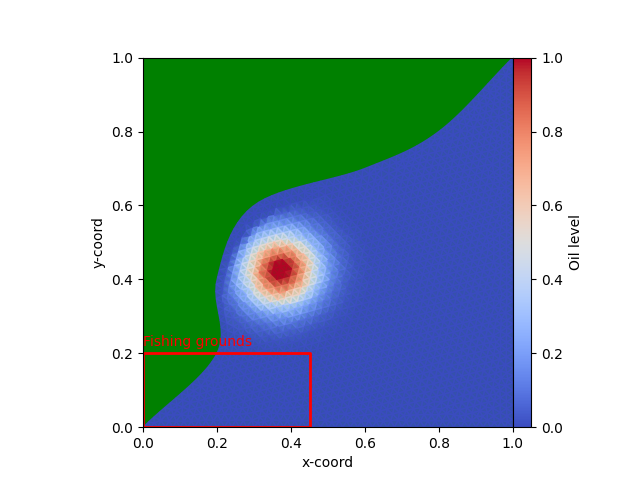
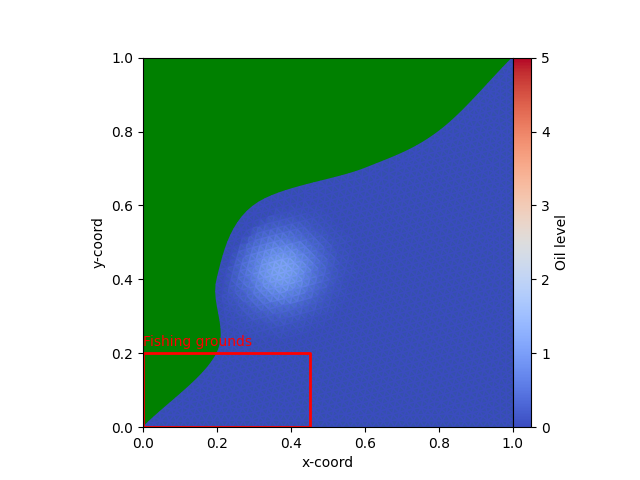
chore: Trying to make the simulation better

diff --git a/src/controller.py b/src/controller.py
@@ -80,11 +80,11 @@ class Controller:
             if border.get_neighbour() is not None:
                 flux = self.calculate_flux_triangle_edge(border, area_i, flow_i, oil_i)
                 flux_list.append(flux)
-            elif border.get_border_type() == "ocean":
+            """elif border.get_border_type() == "ocean":
                 flux = self.calculate_flux_edge(border, area_i, flow_i, oil_i)
                 flux_list.append(flux)
             elif border.get_border_type() == "coast":
-                continue
+                continue"""
 
         oil_value_new = oil_i
         for flux in flux_list:

diff --git a/main.py b/main.py
@@ -5,6 +5,14 @@ from src.model.point.point import Point
 from src.model.view.createImage import CreateImage
 from src.controller import Controller
 import time
+import os
+
+folder = "src/resources/output"
+
+for filename in os.listdir(folder):
+    path = os.path.join(folder, filename)
+    if os.path.isfile(path):
+        os.remove(path)
 
 start_time = time.time()  # Timer
 

diff --git a/src/model/view/createImage.py b/src/model/view/createImage.py
@@ -9,7 +9,7 @@ class CreateImage():
 
     def __init__(self, TriangleList):
         self._triangles = TriangleList  # get a list of triangles can be done multiple ways
-        self._umax = 1.0
+        self._umax = 5.0
         self._umin = 0.0
         self._u = 0.0
 
